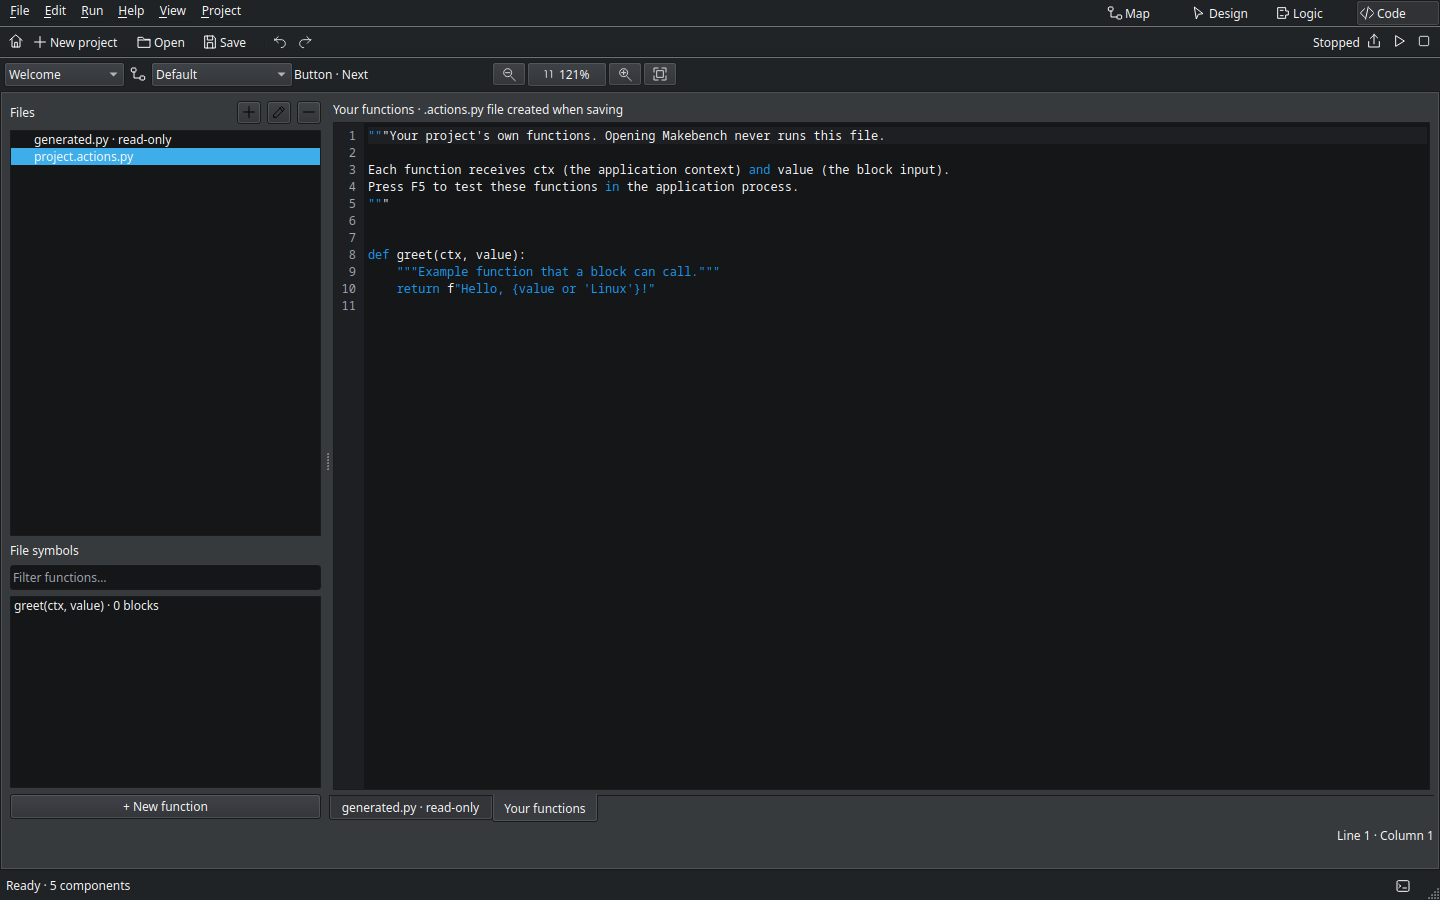
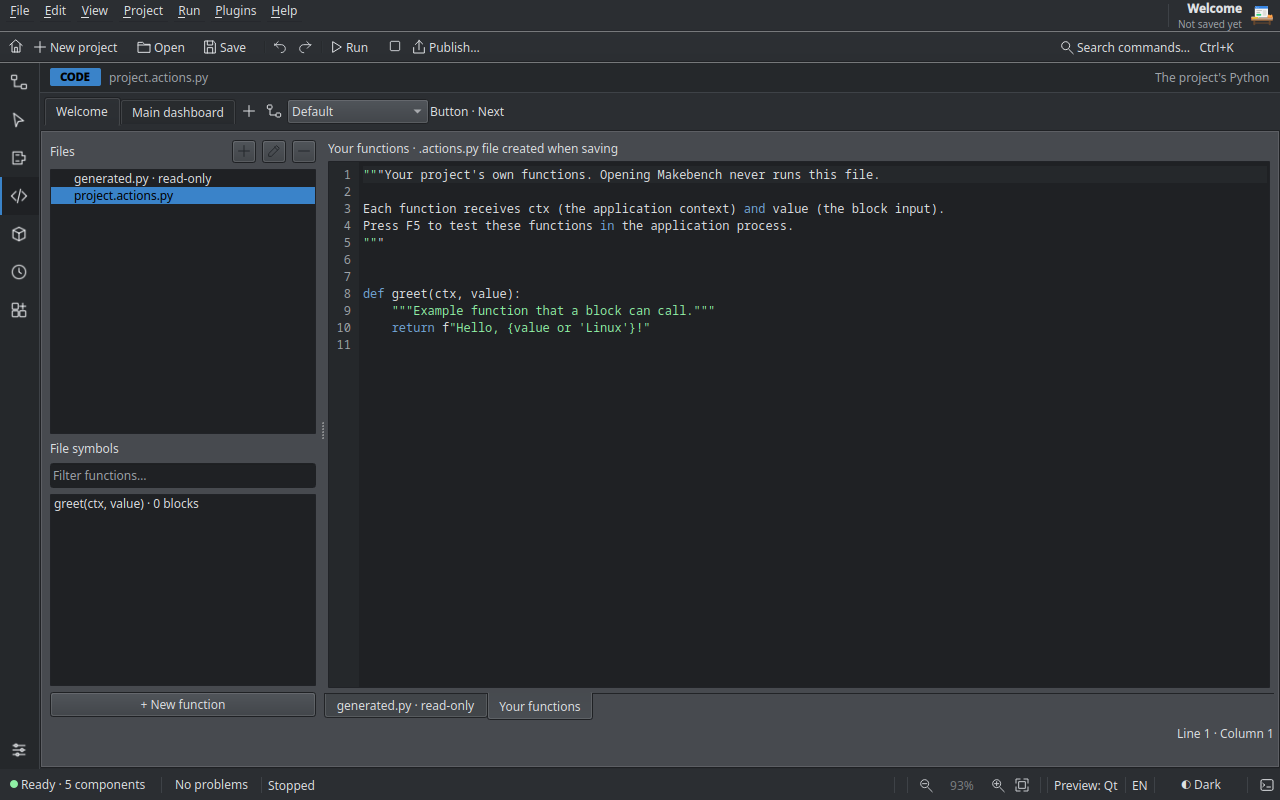
Describe the new interface in the changelog and guides with fresh screenshots

Changed region(s): [[0.0, 0.0, 1.0, 0.9375], [0.7188, 0.9688, 1.0, 1.0], [0.0, 0.9375, 0.25, 1.0]]

diff --git a/CHANGELOG.md b/CHANGELOG.md
@@ -11,8 +11,21 @@
   `ctx` is fully described for completion.
 - **Window look:** per-window theme, accent and background (Qt and GTK) and
   `ctx.set_theme` / `ctx.set_background`.
-- **Themes and downloads (in progress):** `.mbtheme` color theme files with strict
-  validation, and downloading a project from a Git address.
+- **New interface:** Makebench now draws with its own light and dark colors
+  (the desktop's colors stay one setting away), with an area bar on the left, a
+  strip naming the current area, detachable panels with *Restore layout*, a richer
+  status bar with a light/dark switch, and the project's icon in the corner.
+- **Start window and page:** larger start window with recent projects, templates,
+  tips and recovery; the empty workspace shows the emblem (gray in dark mode) and
+  can reopen the start window. A retro emblem is hidden in Preferences.
+- **Themes:** `.mbtheme` color theme files with strict validation, picked, created
+  and imported in *Plugins › Themes…*.
+- **Download from Git:** clone a project from any Git address and open it.
+- **Clearer screens:** Properties as a table, grouped Components, document tabs and
+  tinted headers in History, Publish and Preferences.
+- **Fixed in running apps:** tabbed pages no longer draw over the current tab when
+  the window starts, and an output's starting text is a hint instead of text the
+  program's output is appended to.
 - **New project dialog:** advanced options only on request.
 - **Complete examples:** *Complete workshop* with nodes and with blocks, in English
   and Portuguese, with an in-app guide window.

diff --git a/docs/user-guide.md b/docs/user-guide.md
@@ -15,6 +15,23 @@ Press **F1** in the editor to open the short getting-started guide, and
 - **Open project…** opens an existing `.makebench.json` file.
 - **Open example…** copies one of the bundled examples into your projects
   folder and opens the copy. The original examples are never changed.
+- **Download from Git…** clones a project from any Git address into your projects
+  folder and opens it. Nothing in it runs until you press **F5**.
+
+Closing the start window leaves a **Show the start window** button on the empty
+workspace.
+
+## The workspace
+
+The bar on the left switches between the areas; the strip under the toolbar
+names the current area and project. Components, Layers and Properties are panels
+you can detach, dock elsewhere or close; **View › Panels › Restore layout** puts
+them back. The status bar shows whether the project is saved, its problems, the
+toolkit, the zoom and a light/dark switch.
+
+Makebench draws with its own colors by default. **Preferences › Appearance ›
+Look** switches to the desktop's own colors, and **Plugins › Themes…** picks,
+creates or imports `.mbtheme` color themes.
 
 Opening a project never runs it. A project is a `.makebench.json` file with a
 sibling `.actions.py` file for your own Python, an optional `makebench_user/`

diff --git a/docs/user-guide.pt-BR.md b/docs/user-guide.pt-BR.md
@@ -17,6 +17,23 @@ atalhos.
 - **Abrir projeto…** abre um arquivo `.makebench.json` existente.
 - **Abrir exemplo…** copia um dos exemplos incluídos para a pasta de projetos e
   abre a cópia. Os exemplos originais nunca são alterados.
+- **Baixar do Git…** clona um projeto de qualquer endereço Git para a pasta de
+  projetos e o abre. Nada nele roda até você apertar **F5**.
+
+Ao fechar a janela de abertura, a área vazia mostra o botão **Mostrar a janela de
+abertura**.
+
+## A área de trabalho
+
+A barra à esquerda troca de área; a faixa abaixo da barra de ferramentas mostra a
+área atual e o projeto. Componentes, Camadas e Propriedades são painéis que você
+pode soltar, encaixar em outro lugar ou fechar; **Exibir › Painéis › Restaurar
+layout** os devolve. A barra de status mostra se o projeto está salvo, os problemas,
+o toolkit, o zoom e um botão de claro/escuro.
+
+O Makebench usa cores próprias por padrão. **Preferências › Aparência › Visual**
+troca para as cores do desktop, e **Plugins › Temas…** escolhe, cria ou importa
+temas de cores `.mbtheme`.
 
 Abrir um projeto nunca o executa. Um projeto é um arquivo `.makebench.json`, com
 um arquivo `.actions.py` ao lado para o seu Python, um pacote opcional de
